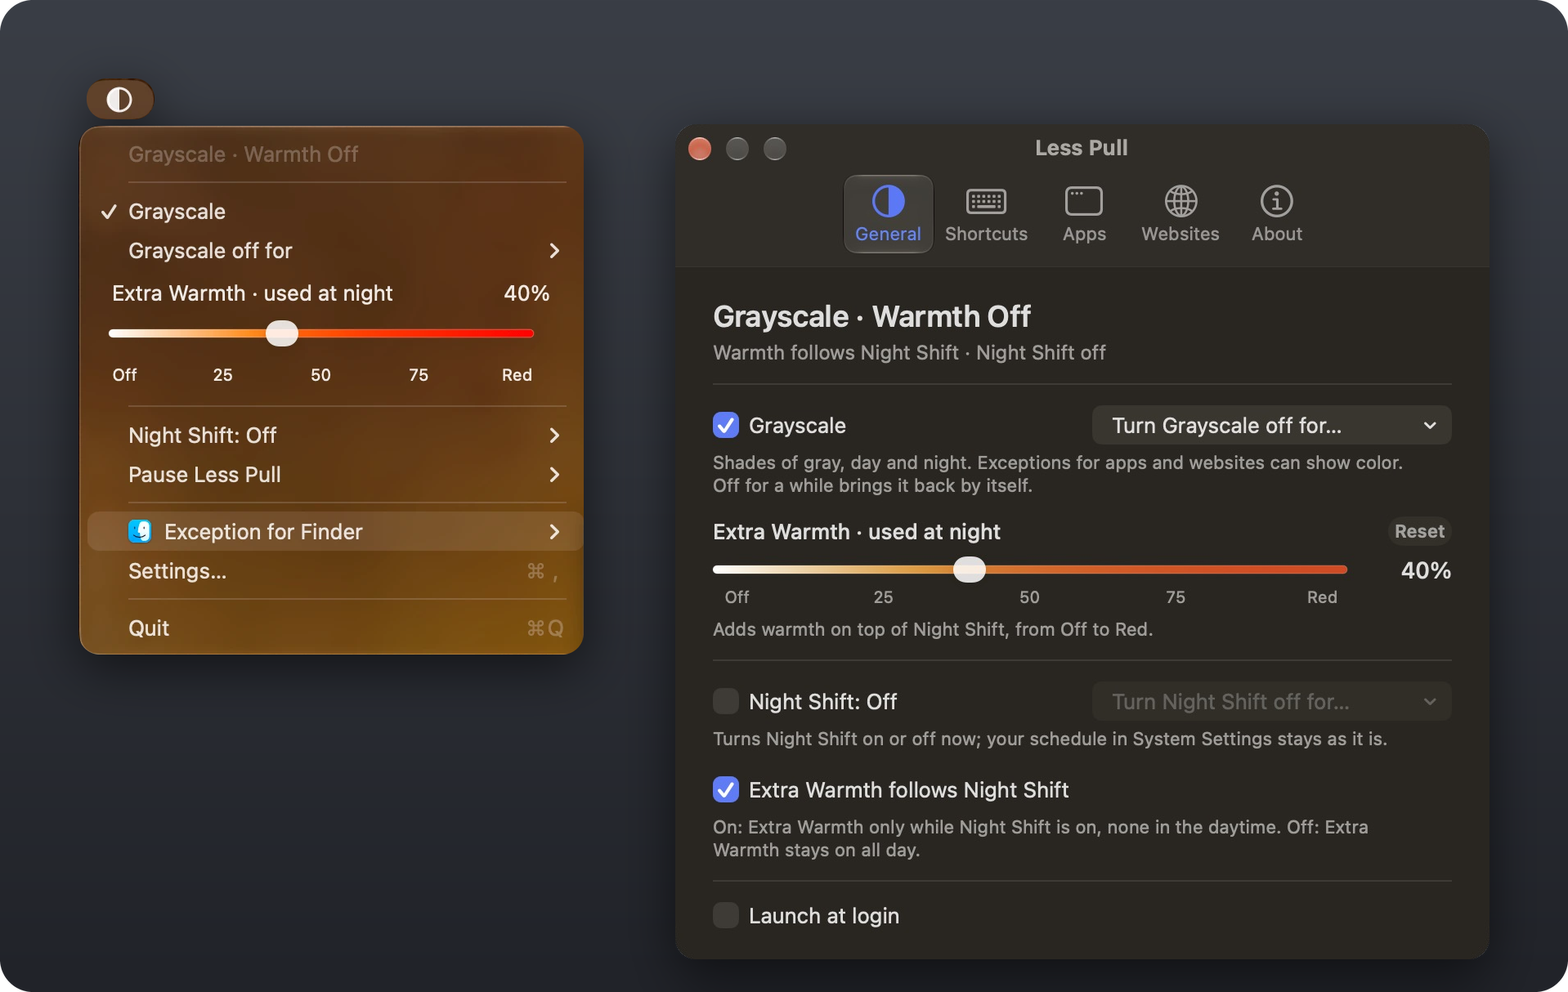
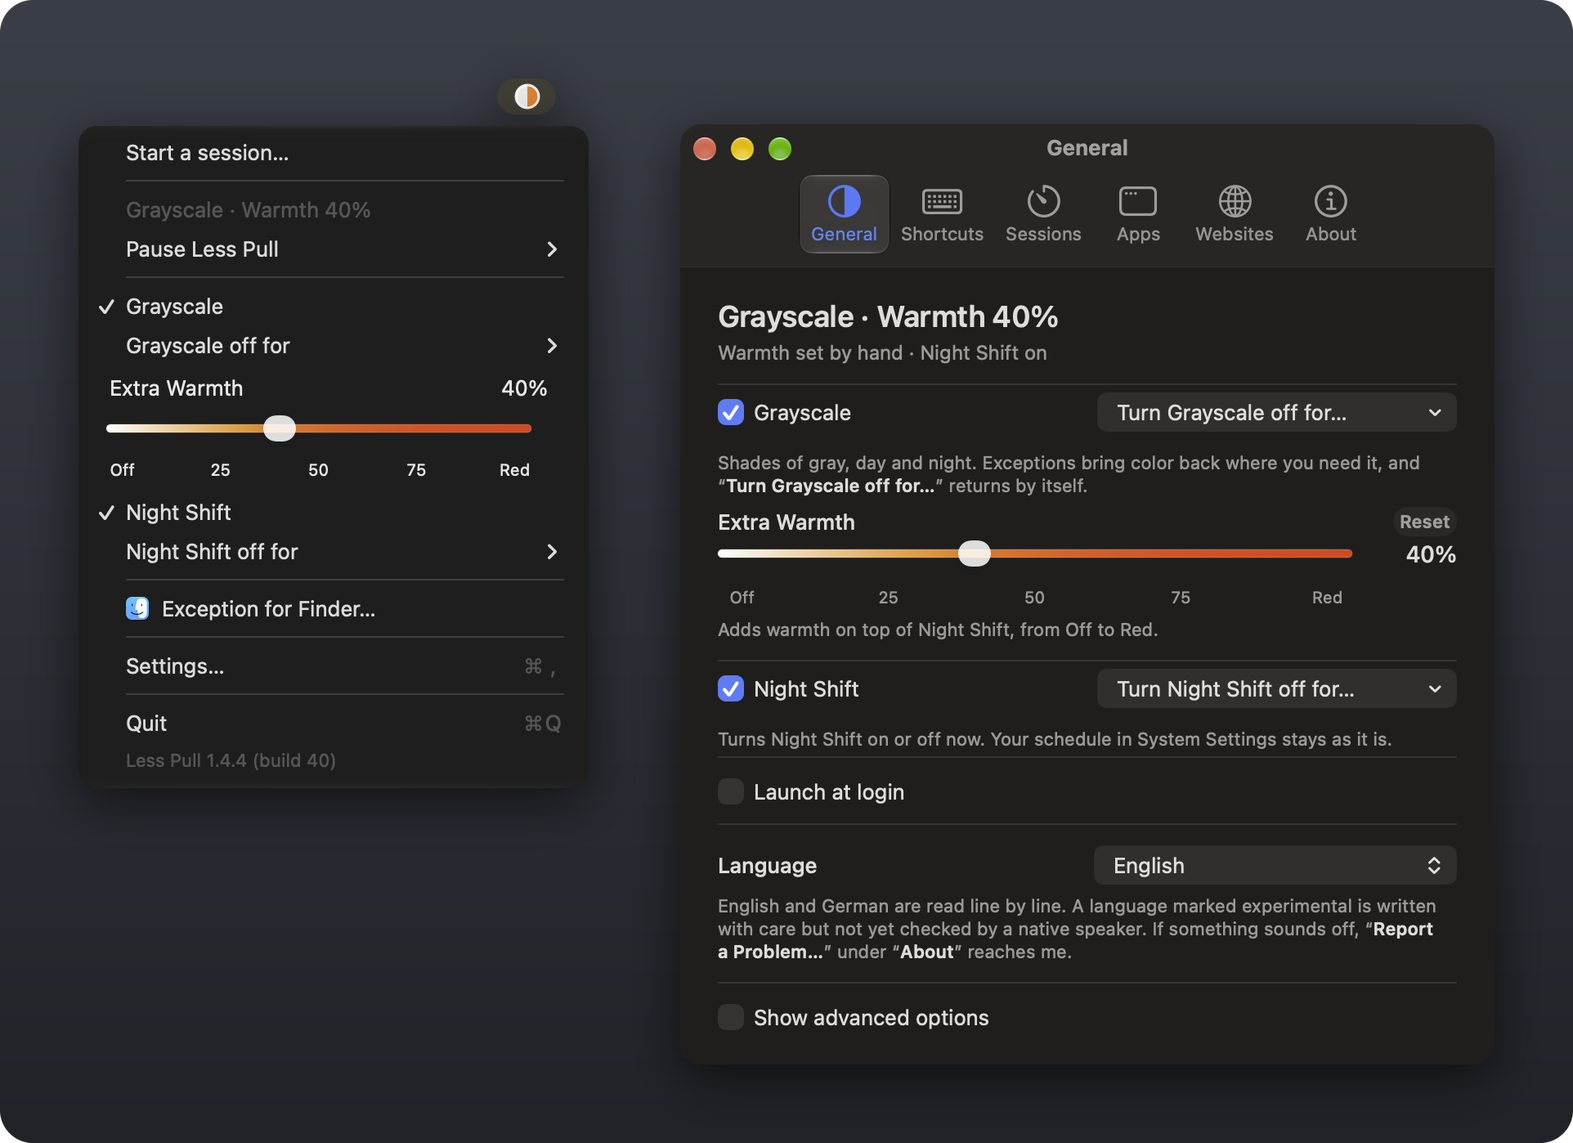
Demo: About in three labelled rows, just-call-me-back from the start panel, README controls section with build 40 figures
German lines added for the review; other languages follow on adoption.

diff --git a/Source/main.m b/Source/main.m
@@ -1118,6 +1118,8 @@ static NSMutableDictionary *RuleAfterChange(NSDictionary *before,NSMutableDictio
 - (void)extendSession:(id)sender {[self.session extendMinutes:10];[self persistSession];self.statusImageName=nil;[self updateStatusIcon];[self refreshSessionPanel];}
 - (void)sessionQuiet:(id)sender {[self.session quietFor:5 at:NSDate.date];[self persistSession];[self closeSessionPanel];}
 - (void)sessionLeaving:(id)sender {[self showSessionPanelMode:@"callback"];}
+- (void)justCallMeBack:(id)sender {[self showSessionPanelMode:@"justback"];}
+- (void)openStartPanelNow:(id)sender {[self showSessionPanelMode:@"start"];}
 - (void)sessionCallBack:(NSButton *)sender {[self.session leaveAt:NSDate.date callBackIn:sender.tag];[self persistSession];[self scheduleSessionTimer];[self closeSessionPanel];self.statusImageName=nil;[self updateStatusIcon];}
 - (void)sessionBack:(id)sender {[self endSession:sender];}
 - (void)showSessionsFromPanel:(id)sender {[self closeSessionPanel];[self showSessions:nil];}
@@ -1159,7 +1161,23 @@ static NSMutableDictionary *RuleAfterChange(NSDictionary *before,NSMutableDictio
   self.customStart=[self panelButton:[NSString stringWithFormat:L(@"Start %ld min"),(long)self.customMinutes] action:@selector(startCustomSession:) prominent:NO];
   NSButton *gear=[NSButton buttonWithImage:[NSImage imageWithSystemSymbolName:@"gearshape" accessibilityDescription:L(@"Session settings")] target:self action:@selector(showSessionsFromPanel:)];gear.bezelStyle=NSBezelStyleInline;gear.bordered=NO;[self helpView:gear text:L(@"Lengths, reminders, sound and glow are under Settings → Sessions.") label:L(@"Session settings")];
   NSButton *later=[self panelButton:L(@"Not now") action:@selector(closeSessionPanel) prominent:NO];later.bezelStyle=NSBezelStyleInline;later.controlSize=NSControlSizeRegular;
-  [buttons addObject:[self row:@[self.customSave,[self spacer],self.customStart]]];[buttons addObject:[self row:@[[self spacer],later,gear]]];}
+  [buttons addObject:[self row:@[self.customSave,[self spacer],self.customStart]]];
+  // Forgot to start a session and stepping away? One quiet line turns this panel into the call back alone.
+  NSButton *justBack=[self panelButton:L(@"Or just call me back in…") action:@selector(justCallMeBack:) prominent:NO];justBack.bezelStyle=NSBezelStyleInline;justBack.controlSize=NSControlSizeRegular;[self helpView:justBack text:L(@"No session: Less Pull calls you back once after the time you choose.") label:L(@"Just call me back")];
+  [buttons addObject:[self row:@[justBack,[self spacer],later,gear]]];}
+ else if([mode isEqual:@"justback"]){time.stringValue=L(@"Call me back");time.font=[NSFont systemFontOfSize:22 weight:NSFontWeightLight];time.textColor=NSColor.labelColor;sub.stringValue=L(@"No session, just the call back. In how long?");
+  NSMutableArray *chips=[NSMutableArray new];for(NSNumber *m in [self sessionPresets:@"callBackPresets" fallback:@[@5,@9,@13,@33]])[chips addObject:[self chip:m.integerValue key:@"callBackPresets" action:@selector(sessionCallBack:)]];
+  [buttons addObjectsFromArray:[self chipRows:chips]];
+  self.customBackMinutes=MAX(1,MIN(120,[NSUserDefaults.standardUserDefaults integerForKey:@"customBackMinutes"]));
+  NSSlider *bslider=[NSSlider sliderWithValue:self.customBackMinutes minValue:1 maxValue:120 target:self action:@selector(customBackChanged:)];bslider.continuous=YES;bslider.controlSize=NSControlSizeSmall;[bslider setContentHuggingPriority:1 forOrientation:NSLayoutConstraintOrientationHorizontal];[self helpView:bslider text:L(@"Any time from 1 to 120 minutes.") label:L(@"Call me back in, minutes")];
+  self.customBackLabel=[NSTextField labelWithString:[NSString stringWithFormat:L(@"%ld min"),(long)self.customBackMinutes]];self.customBackLabel.font=[NSFont monospacedDigitSystemFontOfSize:13 weight:NSFontWeightMedium];self.customBackLabel.alignment=NSTextAlignmentRight;[self.customBackLabel.widthAnchor constraintEqualToConstant:58].active=YES;
+  NSTextField *orb=[NSTextField labelWithString:L(@"or")];orb.font=[NSFont systemFontOfSize:12];orb.textColor=NSColor.tertiaryLabelColor;NSStackView *bsliderRow=[self row:@[orb,bslider,self.customBackLabel]];bsliderRow.spacing=8;[buttons addObject:bsliderRow];
+  self.customBackSave=[NSButton checkboxWithTitle:L(@"Add to presets") target:nil action:nil];self.customBackSave.font=[NSFont systemFontOfSize:11];self.customBackSave.controlSize=NSControlSizeSmall;[self helpView:self.customBackSave text:L(@"Keep this time as a chip for next time.") label:L(@"Add this time to the presets")];
+  self.customBackStart=[self panelButton:[NSString stringWithFormat:L(@"Call me back in %ld min"),(long)self.customBackMinutes] action:@selector(customCallBack:) prominent:NO];
+  [buttons addObject:[self row:@[self.customBackSave,[self spacer],self.customBackStart]]];
+  NSButton *back=[self panelButton:L(@"Start a session instead") action:@selector(openStartPanelNow:) prominent:NO];back.bezelStyle=NSBezelStyleInline;back.controlSize=NSControlSizeRegular;
+  NSButton *later2=[self panelButton:L(@"Not now") action:@selector(closeSessionPanel) prominent:NO];later2.bezelStyle=NSBezelStyleInline;later2.controlSize=NSControlSizeRegular;
+  [buttons addObject:[self row:@[back,[self spacer],later2]]];}
  else if([mode isEqual:@"callback"]){sub.stringValue=L(@"Call me back in");time.stringValue=L(@"Leaving now.");time.font=[NSFont systemFontOfSize:22 weight:NSFontWeightLight];time.textColor=NSColor.labelColor;
   NSMutableArray *chips=[NSMutableArray new];for(NSNumber *m in [self sessionPresets:@"callBackPresets" fallback:@[@5,@9,@13,@33]])[chips addObject:[self chip:m.integerValue key:@"callBackPresets" action:@selector(sessionCallBack:)]];
   [buttons addObjectsFromArray:[self chipRows:chips]];
@@ -1187,7 +1205,7 @@ static NSMutableDictionary *RuleAfterChange(NSDictionary *before,NSMutableDictio
  return column;
 }
 - (void)showSessionPanelMode:(NSString *)mode {
- if(self.session.state==SessionIdle&&![mode isEqual:@"start"])return;[self closeExceptionPanel];NSView *content=[self sessionPanelContentMode:mode];
+ if(self.session.state==SessionIdle&&![mode isEqual:@"start"]&&![mode isEqual:@"justback"])return;[self closeExceptionPanel];NSView *content=[self sessionPanelContentMode:mode];
  if(!self.sessionPanel){NSPanel *p=[[NSPanel alloc]initWithContentRect:NSMakeRect(0,0,320,150) styleMask:NSWindowStyleMaskBorderless|NSWindowStyleMaskNonactivatingPanel backing:NSBackingStoreBuffered defer:NO];p.opaque=NO;p.backgroundColor=NSColor.clearColor;p.level=NSPopUpMenuWindowLevel;p.hasShadow=YES;p.releasedWhenClosed=NO;p.collectionBehavior=NSWindowCollectionBehaviorCanJoinAllSpaces|NSWindowCollectionBehaviorTransient;p.becomesKeyOnlyIfNeeded=YES;
   NSVisualEffectView *back=[NSVisualEffectView new];back.material=NSVisualEffectMaterialPopover;back.blendingMode=NSVisualEffectBlendingModeBehindWindow;back.state=NSVisualEffectStateActive;back.wantsLayer=YES;back.layer.cornerRadius=14;back.layer.masksToBounds=YES;p.contentView=back;self.sessionPanel=p;}
  NSView *back=self.sessionPanel.contentView;NSView *old=back.subviews.firstObject;content.translatesAutoresizingMaskIntoConstraints=NO;[back addSubview:content];
@@ -1980,7 +1998,6 @@ static OSStatus PeekHotKeyHandler(EventHandlerCallRef next,EventRef event,void *
  NSTextField *version=[NSTextField labelWithString:[NSString stringWithFormat:L(@"Version %@"),[self runningVersionLabel]]];version.textColor=NSColor.secondaryLabelColor;version.toolTip=L(@"It will always be 1.4.4. The build number is what changes.");version.accessibilityHelp=version.toolTip;
  NSTextField *credit=[NSTextField labelWithString:L(@"© 2026 Jiri Arion Rose")];credit.font=[NSFont systemFontOfSize:11];credit.textColor=NSColor.secondaryLabelColor;
  NSTextField *forever=[NSTextField labelWithString:L(@"It will always be 1.4.4. The build number is what changes.")];forever.font=[NSFont systemFontOfSize:10];forever.textColor=NSColor.tertiaryLabelColor;
- NSStackView *identity=[self column:@[name,version,forever,credit]];identity.spacing=2;
  NSButton *help=[NSButton buttonWithTitle:L(@"Help") target:self action:@selector(showHelp:)];[self helpView:help text:L(@"A short guide to Less Pull.") label:L(@"Help")];
  NSButton *diagnostics=[NSButton buttonWithTitle:L(@"Diagnostics…") target:self action:@selector(diagnostics:)];[self helpView:diagnostics text:L(@"Technical details for troubleshooting.") label:L(@"Diagnostics")];
  NSButton *support=[NSButton buttonWithTitle:L(@"Support my work") target:self action:@selector(showThanks:)];[self helpView:support text:L(@"Shows the thank-you card with ways to support Less Pull, the one that appears after two weeks.") label:L(@"Support my work")];
@@ -1991,8 +2008,25 @@ static OSStatus PeekHotKeyHandler(EventHandlerCallRef next,EventRef event,void *
  self.updateCheckbox=[NSButton checkboxWithTitle:L(@"Check for updates automatically") target:self action:@selector(toggleUpdateChecks:)];[self helpView:self.updateCheckbox text:L(@"Once a day, Less Pull asks GitHub whether a newer build exists. Nothing about you is sent.") label:L(@"Check for updates automatically")];
  self.updateButton=[NSButton buttonWithTitle:L(@"Check for Updates…") target:self action:@selector(checkForUpdatesNow:)];[self helpView:self.updateButton text:L(@"Ask GitHub now whether a newer version exists.") label:L(@"Check for Updates")];
  self.updateStatusLabel=[self note:@""];
- NSStackView *column=[self column:@[[self row:@[icon,identity]],[self row:[self authorLinkButtons]],[self separator],[self row:@[help,tour,diagnostics,report]],[self row:@[support,share,licenses,[self spacer]]],[self separator],self.updateCheckbox,[self note:L(@"Once a day, Less Pull asks GitHub whether a newer build exists for your macOS version. Nothing about you is sent, and you can turn this off.")],[self row:@[self.updateButton,[self spacer]]],self.updateStatusLabel,[self note:L(@"Everything else stays on this Mac: no account, no analytics, no servers. The browser extension talks only to the app.")]]];
- [(NSStackView *)column.arrangedSubviews[0] setSpacing:16];[column setCustomSpacing:4 afterView:self.updateCheckbox];[column setCustomSpacing:4 afterView:column.arrangedSubviews[7]];[self refreshUpdateControls];
+ // Who and which build; the 1.4.4 note stays as the version's tooltip. The author's links sit under the name, aligned with the text.
+ NSStackView *links=[self row:[self authorLinkButtons]];links.spacing=6;
+ NSStackView *identity=[self column:@[name,version,credit,links]];identity.spacing=3;[identity setCustomSpacing:12 afterView:credit];
+ [help setTitle:L(@"Guide")];
+ // Three labelled rows, like the rest of Settings: what you do here, and the buttons that do it.
+ NSTextField *(^heading)(NSString *)=^NSTextField *(NSString *t){NSTextField *f=[NSTextField labelWithString:t];f.font=[NSFont systemFontOfSize:13 weight:NSFontWeightMedium];[f.widthAnchor constraintEqualToConstant:104].active=YES;return f;};
+ NSStackView *helpRow=[self row:@[heading(L(@"Help")),help,tour,report,[self spacer]]];
+ NSStackView *supportRow=[self row:@[heading(L(@"Support")),support,share,[self spacer]]];
+ self.updateCheckbox.title=L(@"Automatically");
+ NSStackView *updateRow=[self row:@[heading(L(@"Updates")),self.updateCheckbox,[self spacer],self.updateButton]];
+ NSTextField *updateNote=[self note:L(@"Once a day, Less Pull asks GitHub whether a newer build exists for your macOS version. That is its only connection, and nothing about you is sent.")];
+ // Diagnostics and Licenses are rarely needed: two small text buttons at the end.
+ for(NSButton *small in @[diagnostics,licenses]){small.bezelStyle=NSBezelStyleInline;small.controlSize=NSControlSizeSmall;small.font=[NSFont systemFontOfSize:11];}
+ NSStackView *footer=[self row:@[diagnostics,licenses,[self spacer]]];footer.spacing=8;
+ NSStackView *top=[self row:@[icon,identity]];top.spacing=16;top.alignment=NSLayoutAttributeTop;
+ updateNote.preferredMaxLayoutWidth=330;self.updateStatusLabel.preferredMaxLayoutWidth=330;
+ NSView *(^indent)(NSView *)=^NSView *(NSView *v){NSView *gap=[NSView new];[gap.widthAnchor constraintEqualToConstant:104].active=YES;NSStackView *r=[self row:@[gap,v]];r.alignment=NSLayoutAttributeTop;r.identifier=@"fixed";return r;};
+ NSStackView *column=[self column:@[top,[self separator],helpRow,supportRow,[self separator],updateRow,indent(updateNote),indent(self.updateStatusLabel),[self separator],footer]];
+ column.spacing=10;[column setCustomSpacing:4 afterView:updateRow];[column setCustomSpacing:2 afterView:column.arrangedSubviews[6]];[self refreshUpdateControls];
  return column;
 }
 - (NSString *)websiteStatusLine {

diff --git a/README.md b/README.md
@@ -173,52 +173,54 @@ More in [Night Shift and warmth](docs/NIGHT-SHIFT.md).
 
 ## Where the controls are
 
-Less Pull has two interfaces, both on the Mac: the menu and the Settings window. The browser extension only connects the browser.
+Less Pull lives in the menu bar. Click the circle for the menu, and choose **Settings…** there for everything in one place. The browser extension only connects the browser.
+
+### The menu, for quick changes
+
+The icon tells you the state: its left half fills while grayscale is showing, its right half warms as you add warmth, and it shows a pause mark while Less Pull is paused. A right-click opens the session panel; Settings → Shortcuts can give either button the menu, Grayscale or the session panel.
+
+- The first line tells you what is applied right now, with **Pause Less Pull** right below it: the plain display for 15 minutes, an hour, or until you resume.
+- **Grayscale**, the **Extra Warmth** slider and **Night Shift** change your defaults. While Grayscale or Night Shift is on, the line below it turns it off for a while, and it comes back by itself.
+- **Start a session…** begins a stretch of focused work, or just a call back when you step away.
+- **Exception for [current app]…** opens a small panel under the icon with the same row as in Settings, and every change applies right away. With a website in front, **Exception for [that site]…** does the same for the domain or the exact page.
 
 <p align="center">
-  <img src="docs/assets/interfaces.png" width="100%" alt="Two screenshots of Less Pull side by side. On the left, the menu-bar dropdown under its half-filled circle icon: the status line Grayscale, Warmth Off, then Grayscale with a check, Grayscale off for with a submenu, the Extra Warmth slider drawn as a ramp from neutral through amber to red at 40 percent with stops labeled Off, 25, 50, 75 and Red, Night Shift: Off with a submenu, Pause Less Pull, Exception for Finder with the Finder icon, Settings and Quit. On the right, the Settings window on its General tab, with the toolbar tabs General, Shortcuts, Apps, Websites and About: the heading Grayscale, Warmth Off, a Grayscale checkbox with a Turn Grayscale off for menu, the Extra Warmth ramp slider at 40 percent with a Reset button, Night Shift: Off with its timed-off menu, Extra Warmth follows Night Shift, and Launch at login, each with a short explanation underneath.">
+  <img src="docs/assets/exceptions.png" width="100%" alt="The Less Pull menu under its icon, with Start a session, the status line Grayscale, Warmth 40%, Pause Less Pull, Grayscale, Grayscale off for, the Extra Warmth slider at 40 percent, Night Shift, Night Shift off for, Exception for Finder, Settings and Quit. Beside it, the exception panel for Finder under the icon: Use this exception, Grayscale and Night Shift each as Default, On or Off, and Use default warmth with its slider.">
 </p>
 
-<sub>Two real screenshots of build 16, placed side by side on a plain backdrop. The menu is translucent, so it carries a tint of whatever was behind it.</sub>
+<sub>The menu and the exception panel it opens. Real screenshots of build 40 with an example rule.</sub>
 
-### The menu bar, for quick changes
+<details>
+<summary><b>See the menu beside the Settings window, and every Settings tab</b></summary>
 
-Click the circle in the menu bar (a right-click opens the session panel; Settings → Shortcuts can give either button the menu, Grayscale or the session). This is the dropdown on the left. The icon itself tells you the state: its left half fills while grayscale is showing, its right half warms as you add warmth, and it shows a pause mark while Less Pull or Night Shift is paused.
-
-- The first line tells you what is applied right now.
-- **Grayscale** and the **Extra Warmth** slider change your defaults. The slider's track shows the real ramp from neutral through amber to red. **Grayscale off for** gives you color for an hour, four hours, or until Night Shift next changes.
-- **Night Shift** holds everything about Night Shift: on or off now, off for a while, and whether Extra Warmth follows it.
-- **Pause Less Pull** shows the plain display for 15 minutes, an hour, or until you resume.
-- **Exception for [current app]** sets the rule for the app you were just using, right in the menu. With a website in front, **Exception for [that site]** does the same for the domain or the exact page.
+<br>
 
 <p align="center">
-  <img src="docs/assets/exceptions.png" width="100%" alt="Two screenshots of the menu with an exception submenu open. Left: Exception for Finder, with Use this exception, Grayscale and Night Shift each as Use default, On or Off, Use default warmth, an Extra Warmth slider for Finder on the ramp, and More in Settings. Right: with Brave in front on mubi.com, Exception for mubi.com, with Use this exception, Apply to Whole domain or This exact page, Grayscale as Use default (On), On or Off, Night Shift as Use default (Off), On or Off, Use default warmth (40 percent), an Extra Warmth slider for mubi.com, and All website exceptions.">
+  <img src="docs/assets/interfaces.png" width="100%" alt="The Less Pull menu under its icon beside the Settings window on its General tab: the heading Grayscale, Warmth 40%, Grayscale with Turn Grayscale off for, the Extra Warmth slider with Reset, Night Shift with Turn Night Shift off for, Launch at login, Language, and Show advanced options, each with a short explanation underneath.">
 </p>
 
-<sub>An app exception and a website exception, set straight from the menu. The default entries show what they resolve to.</sub>
+The Settings window has six tabs:
 
-### The settings window, for everything in one place
-
-Choose **Settings…** in the menu. This is the window on the right, with six tabs.
-
-- **General**: the same controls as the menu, with a short line under each one, plus **Launch at login**.
-- **Sessions**: session lengths, call-back choices, reminders after the end, sound and glow, and Try it.
-- **Shortcuts**: [**Peek in color**](#peek-in-color) (a shortcut you hold to see the plain display, and what it turns off), a **Toggle Grayscale** shortcut, and what a left and a right click on the menu-bar icon do. **Suggest** picks a free shortcut for you.
-- **Apps**: every app exception, one row each: the app's icon, Use this exception, Default / On / Off for Grayscale and Night Shift. **More** opens the row for warmth and, with several displays, the display choices.
+- **General**: the same controls as the menu, with a short line under each one, plus **Launch at login** and **Language**.
+- **Shortcuts**: [**Peek in color**](#peek-in-color) and what it turns off, a **Toggle Grayscale** shortcut, and what a left and a right click on the menu-bar icon do.
+- **Sessions**: session lengths, call-back times, what happens at the end, reminders, sound and glow.
+- **Apps**: every app exception, one row each, with Default / On / Off for Grayscale and Night Shift and its own warmth.
 - **Websites**: the browser extension and the saved website exceptions, in the same shape as the app rows.
-- **About**: version, links, Help, Diagnostics, licenses, and the update check.
+- **About**: version and links, the guide and the tour, support, and the update check.
 
-The window shows what is relevant and hides the rest: display options appear only with two or more displays connected, and the fine-tuning (what Peek turns off, what the mouse buttons do, display options with one display) sits behind **Show advanced options** at the bottom of General. Everything keeps working as set while it is hidden. On the very first launch this window opens by itself with a short welcome and a five-page tour: the screen, exceptions, Peek, sessions and privacy, each with its own small animation drawn in code (a pointer clicking the circle, a menu dropping, keys pressing, a ring filling), in the same card at the same size, with Skip tour always at hand. The two shortcuts are set for new users, ⌥A to peek and ⌥⌘G to toggle, each only if it is free on that Mac and keyboard; the tour shows which ones, and Shortcuts lets you change them. The tour can be opened again from About. After two weeks of use, the next time you open Settings, a small card asks whether you enjoy Less Pull and how to support the author; it never pops up on its own.
+Display options appear only with two or more displays connected, and the fine-tuning sits behind **Show advanced options**; hidden settings keep working as you set them.
 
 <p align="center">
-  <img src="docs/assets/settings-tabs.png" width="100%" alt="Four screenshots of the Settings window on a plain backdrop. Shortcuts: Peek in color with the shortcut Option-A, what peeking turns off, a Toggle Grayscale shortcut Option-Command-G, and what clicking the menu-bar icon does. Apps: three app exceptions, Music, Photos and TextEdit, each with its icon, a Use this exception checkbox, Default, On and Off segments for Grayscale and Night Shift, and a warmth slider on the ramp. Websites: the Install Browser Extension button, the extension connected in Firefox, Brave and Opera, and two saved exceptions for example.com and one exact page with the same controls. About: the app icon, version 1.4.4 build 16, the author's links, Help, Diagnostics and Licenses, and the automatic update check.">
+  <img src="docs/assets/settings-tabs.png" width="100%" alt="Five tabs of the Settings window: Shortcuts with Peek in color and the Toggle Grayscale shortcut; Sessions with lengths, call-back times and what happens at the end; Apps with example exceptions for Music, Photos and TextEdit; Websites with example exceptions for example.com and one exact page; About with the version, the author's links, Help, Support and Updates.">
 </p>
 
-<sub>Real screenshots of build 16 with example rules, placed on a plain backdrop.</sub>
+<sub>Real screenshots of build 40 with example rules.</sub>
+
+</details>
 
 ### Website exceptions, in your browser
 
-The browser extension has no buttons and no settings of its own. It only tells the Mac app which website is in front. With a website open, the Less Pull menu offers **Exception for [that site]**, just like it does for apps: choose **Whole domain** or **This exact page**, set only what you want to change, and it is saved. Saved website rules are listed under **Settings… → Websites**.
+The browser extension has no controls in the browser; everything happens in Less Pull. It only tells the Mac app which website is in front. With a website open, the Less Pull menu offers **Exception for [that site]**, just like it does for apps: choose **Whole domain** or **This exact page**, set only what you want to change, and it is saved. Saved website rules are listed under **Settings… → Websites**.
 
 The app changes the display; nothing is injected into pages, and the Mac app has to be running. Brave, Firefox, Safari and Opera are confirmed working on the author's Mac. Chrome and Edge are implemented but have not yet been through a clean install test. Several browsers can use the extension at the same time; whichever browser window is in front decides.
 
